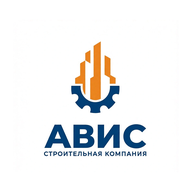
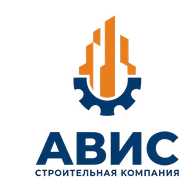
feat: каталог через админку, лого, навигация, mobile fixes
- Каталог решений: 9 категорий управляются через админку (добавление/удаление карточек и фото)
- Solutions.tsx подтягивает каталог из API с fallback на хардкод
- Фото каталога в public/catalog/ для прямого доступа
- Новое лого (прозрачный фон) в хедере, футере, фавиконках
- О компании: лого с белым фоном (avis-logo)
- Навигация: Отрасли добавлена перед Решениями
- Hero mobile: 100svh, видео работает на мобильном
- API: Cache-Control no-cache для мобильного кеширования
- Deploy script: корректное обновление без потери uploads

Changed region(s): [[0.1875, 0.0625, 0.9375, 0.9375]]

diff --git a/src/pages/AdminContent.tsx b/src/pages/AdminContent.tsx
@@ -1,11 +1,24 @@
-import { useState, useEffect, useRef } from "react";
+import { useState, useEffect } from "react";
 import { Button } from "@/components/ui/button";
 import { Input } from "@/components/ui/input";
 import { Textarea } from "@/components/ui/textarea";
 import { Card, CardContent, CardHeader, CardTitle } from "@/components/ui/card";
 import { api } from "@/lib/api";
-import { Check, Loader2, Upload, X } from "lucide-react";
+import { Check, Loader2, Upload, X, Plus, Trash2, ChevronDown, ChevronUp } from "lucide-react";
 import { invalidateContentCache } from "@/hooks/use-content";
+
+interface CatalogProduct {
+  id: string;
+  name: string;
+  description: string;
+  image: string;
+}
+
+interface CatalogCategory {
+  id: string;
+  title: string;
+  products: CatalogProduct[];
+}
 
 interface ContentData {
   hero: { line1: string; line2: string; subtitle: string };
@@ -13,6 +26,7 @@ interface ContentData {
   products: Array<{ name: string; description: string; image: string }>;
   about: { description: string; advantages: string[] };
   contacts: { phone: string; email: string; telegram: string; address: string };
+  catalog: CatalogCategory[];
 }
 
 const defaultContent: ContentData = {
@@ -21,6 +35,7 @@ const defaultContent: ContentData = {
   products: Array.from({ length: 6 }, () => ({ name: "", description: "", image: "" })),
   about: { description: "", advantages: ["", "", "", ""] },
   contacts: { phone: "", email: "", telegram: "", address: "" },
+  catalog: [],
 };
 
 const AdminContent = () => {
@@ -28,6 +43,7 @@ const AdminContent = () => {
   const [loading, setLoading] = useState(true);
   const [saving, setSaving] = useState(false);
   const [saved, setSaved] = useState(false);
+  const [openCategories, setOpenCategories] = useState<Record<string, boolean>>({});
 
   useEffect(() => {
     api.getContent().then((data: any) => {
@@ -37,6 +53,7 @@ const AdminContent = () => {
         products: data.products || defaultContent.products,
         about: data.about || defaultContent.about,
         contacts: data.contacts || defaultContent.contacts,
+        catalog: data.catalog || defaultContent.catalog,
       });
     }).catch(() => {}).finally(() => setLoading(false));
   }, []);
@@ -50,21 +67,24 @@ const AdminContent = () => {
         api.updateContent("products", content.products),
         api.updateContent("about", content.about),
         api.updateContent("contacts", content.contacts),
+        api.updateContent("catalog", content.catalog),
       ]);
       invalidateContentCache();
       setSaved(true);
       setTimeout(() => setSaved(false), 2000);
-    } catch (e) {
+    } catch {
       alert("Ошибка сохранения");
     } finally {
       setSaving(false);
     }
   };
 
+  // Hero
   const updateHero = (field: keyof ContentData["hero"], value: string) => {
     setContent((prev) => ({ ...prev, hero: { ...prev.hero, [field]: value } }));
   };
 
+  // Stats
   const updateStat = (index: number, field: "value" | "label", value: string) => {
     setContent((prev) => {
       const stats = [...prev.stats];
@@ -73,6 +93,7 @@ const AdminContent = () => {
     });
   };
 
+  // Products (home page)
   const updateProduct = (index: number, field: "name" | "description" | "image", value: string) => {
     setContent((prev) => {
       const products = [...prev.products];
@@ -92,10 +113,12 @@ const AdminContent = () => {
     }
   };
 
+  // Contacts
   const updateContacts = (field: keyof ContentData["contacts"], value: string) => {
     setContent((prev) => ({ ...prev, contacts: { ...prev.contacts, [field]: value } }));
   };
 
+  // About
   const updateAbout = (field: "description", value: string) => {
     setContent((prev) => ({ ...prev, about: { ...prev.about, [field]: value } }));
   };
@@ -106,6 +129,79 @@ const AdminContent = () => {
       advantages[index] = value;
       return { ...prev, about: { ...prev.about, advantages } };
     });
+  };
+
+  // ── Catalog ──
+  const addCategory = () => {
+    const id = "cat-" + Date.now();
+    setContent((prev) => ({
+      ...prev,
+      catalog: [...prev.catalog, { id, title: "", products: [] }],
+    }));
+    setOpenCategories((prev) => ({ ...prev, [id]: true }));
+  };
+
+  const removeCategory = (catIndex: number) => {
+    if (!confirm("Удалить категорию и все её карточки?")) return;
+    setContent((prev) => ({
+      ...prev,
+      catalog: prev.catalog.filter((_, i) => i !== catIndex),
+    }));
+  };
+
+  const updateCategoryTitle = (catIndex: number, title: string) => {
+    setContent((prev) => {
+      const catalog = [...prev.catalog];
+      catalog[catIndex] = { ...catalog[catIndex], title };
+      return { ...prev, catalog };
+    });
+  };
+
+  const addProduct = (catIndex: number) => {
+    setContent((prev) => {
+      const catalog = [...prev.catalog];
+      const cat = { ...catalog[catIndex] };
+      cat.products = [...cat.products, { id: `p-${Date.now()}`, name: "", description: "", image: "" }];
+      catalog[catIndex] = cat;
+      return { ...prev, catalog };
+    });
+  };
+
+  const removeProduct = (catIndex: number, prodIndex: number) => {
+    setContent((prev) => {
+      const catalog = [...prev.catalog];
+      const cat = { ...catalog[catIndex] };
+      cat.products = cat.products.filter((_, i) => i !== prodIndex);
+      catalog[catIndex] = cat;
+      return { ...prev, catalog };
+    });
+  };
+
+  const updateCatalogProduct = (catIndex: number, prodIndex: number, field: "name" | "description" | "image", value: string) => {
+    setContent((prev) => {
+      const catalog = [...prev.catalog];
+      const cat = { ...catalog[catIndex] };
+      const products = [...cat.products];
+      products[prodIndex] = { ...products[prodIndex], [field]: value };
+      cat.products = products;
+      catalog[catIndex] = cat;
+      return { ...prev, catalog };
+    });
+  };
+
+  const handleCatalogImage = async (catIndex: number, prodIndex: number, file: File) => {
+    if (!file.type.startsWith("image/")) return;
+    if (file.size > 5 * 1024 * 1024) { alert("Максимум 5MB"); return; }
+    try {
+      const { url } = await api.uploadMedia(file);
+      updateCatalogProduct(catIndex, prodIndex, "image", url);
+    } catch {
+      alert("Ошибка загрузки");
+    }
+  };
+
+  const toggleCategory = (id: string) => {
+    setOpenCategories((prev) => ({ ...prev, [id]: !prev[id] }));
   };
 
   if (loading) {
@@ -173,7 +269,7 @@ const AdminContent = () => {
         </CardContent>
       </Card>
 
-      {/* Products */}
+      {/* Products (home page) */}
       <Card>
         <CardHeader>
           <CardTitle className="text-base font-medium">Продукты на главной — 6 карточек</CardTitle>
@@ -206,6 +302,86 @@ const AdminContent = () => {
                   <Input placeholder="Описание" value={product.description} onChange={(e) => updateProduct(i, "description", e.target.value)} />
                 </div>
               </div>
+            </div>
+          ))}
+        </CardContent>
+      </Card>
+
+      {/* ── Catalog (Solutions page) ── */}
+      <Card>
+        <CardHeader>
+          <div className="flex items-center justify-between">
+            <CardTitle className="text-base font-medium">Каталог решений — страница /solutions</CardTitle>
+            <Button variant="outline" size="sm" onClick={addCategory} className="gap-1">
+              <Plus className="w-4 h-4" /> Категория
+            </Button>
+          </div>
+        </CardHeader>
+        <CardContent className="space-y-3">
+          {content.catalog.length === 0 && (
+            <p className="text-sm text-muted-foreground text-center py-4">
+              Нет категорий. Нажмите «+ Категория» чтобы добавить.
+            </p>
+          )}
+          {content.catalog.map((cat, catIdx) => (
+            <div key={cat.id} className="border border-border rounded-lg overflow-hidden">
+              {/* Category header */}
+              <div
+                className="flex items-center gap-2 px-3 py-2.5 cursor-pointer hover:bg-muted/30 transition-colors"
+                onClick={() => toggleCategory(cat.id)}
+              >
+                {openCategories[cat.id] ? <ChevronUp className="w-4 h-4 text-muted-foreground shrink-0" /> : <ChevronDown className="w-4 h-4 text-muted-foreground shrink-0" />}
+                <span className="text-sm font-medium flex-1">{cat.title || "Без названия"}</span>
+                <span className="text-xs text-muted-foreground">{cat.products.length} карт.</span>
+                <Button variant="ghost" size="icon" className="w-7 h-7 shrink-0" onClick={(e) => { e.stopPropagation(); removeCategory(catIdx); }}>
+                  <Trash2 className="w-3.5 h-3.5 text-destructive" />
+                </Button>
+              </div>
+
+              {/* Category body */}
+              {openCategories[cat.id] && (
+                <div className="px-3 pb-3 space-y-3 border-t border-border/50">
+                  <div className="pt-3">
+                    <label className="text-sm text-muted-foreground mb-1 block">Название категории</label>
+                    <Input value={cat.title} onChange={(e) => updateCategoryTitle(catIdx, e.target.value)} placeholder="Например: Антидроновые сетки" />
+                  </div>
+
+                  {/* Products in category */}
+                  {cat.products.map((prod, prodIdx) => (
+                    <div key={prod.id} className="flex items-start gap-2 pb-3 border-b border-border/30 last:border-0 last:pb-0">
+                      {prod.image ? (
+                        <div className="relative w-20 h-[60px] rounded border border-border overflow-hidden shrink-0">
+                          <img src={prod.image} alt="" className="w-full h-full object-cover" width={80} height={60} />
+                          <button
+                            type="button"
+                            onClick={() => updateCatalogProduct(catIdx, prodIdx, "image", "")}
+                            className="absolute top-0.5 right-0.5 w-4 h-4 bg-black/60 rounded-full flex items-center justify-center hover:bg-black/80"
+                          >
+                            <X className="w-2.5 h-2.5 text-white" />
+                          </button>
+                        </div>
+                      ) : (
+                        <label className="w-20 h-[60px] rounded border-2 border-dashed border-border hover:border-muted-foreground flex flex-col items-center justify-center cursor-pointer shrink-0">
+                          <Upload className="w-3.5 h-3.5 text-muted-foreground" />
+                          <span className="text-[9px] text-muted-foreground mt-0.5">Фото</span>
+                          <input type="file" accept="image/*" className="hidden" onChange={(e) => { const f = e.target.files?.[0]; if (f) handleCatalogImage(catIdx, prodIdx, f); e.target.value = ""; }} />
+                        </label>
+                      )}
+                      <div className="flex-1 space-y-1.5">
+                        <Input placeholder="Название" value={prod.name} onChange={(e) => updateCatalogProduct(catIdx, prodIdx, "name", e.target.value)} className="h-8 text-sm" />
+                        <Input placeholder="Описание" value={prod.description} onChange={(e) => updateCatalogProduct(catIdx, prodIdx, "description", e.target.value)} className="h-8 text-sm" />
+                      </div>
+                      <Button variant="ghost" size="icon" className="w-7 h-7 shrink-0 mt-1" onClick={() => removeProduct(catIdx, prodIdx)}>
+                        <X className="w-3.5 h-3.5 text-muted-foreground" />
+                      </Button>
+                    </div>
+                  ))}
+
+                  <Button variant="outline" size="sm" onClick={() => addProduct(catIdx)} className="w-full gap-1">
+                    <Plus className="w-3.5 h-3.5" /> Добавить карточку
+                  </Button>
+                </div>
+              )}
             </div>
           ))}
         </CardContent>

diff --git a/src/pages/Solutions.tsx b/src/pages/Solutions.tsx
@@ -1,9 +1,10 @@
-import { useState, useEffect, useRef } from "react";
+import { useState, useEffect, useRef, useMemo } from "react";
 import { Link, useLocation, useSearchParams } from "react-router-dom";
 import { Button } from "@/components/ui/button";
 import FadeIn from "@/components/FadeIn";
 import { ArrowRight } from "lucide-react";
-import { catalog, type Category, type Product } from "@/data/catalog";
+import { catalog as defaultCatalog, type Category, type Product } from "@/data/catalog";
+import { useContent } from "@/hooks/use-content";
 import SEO from "@/components/SEO";
 
 /* Placeholder icon SVG */
@@ -58,6 +59,16 @@ const ProductCard = ({ product }: { product: Product }) => (
 const Solutions = () => {
   const [searchParams, setSearchParams] = useSearchParams();
   const activeCategory = searchParams.get("category") || "all";
+  const { content } = useContent();
+
+  // Use catalog from API if available, fallback to hardcoded
+  const catalog: Category[] = useMemo(() => {
+    const apiCatalog = (content as any)?.catalog;
+    if (apiCatalog?.length && apiCatalog.some((c: any) => c.title && c.products?.length)) {
+      return apiCatalog;
+    }
+    return defaultCatalog;
+  }, [content]);
 
   const setCategory = (id: string) => {
     if (id === "all") {

diff --git a/src/hooks/use-content.ts b/src/hooks/use-content.ts
@@ -8,6 +8,7 @@ interface ContentData {
   about: { description: string; advantages: string[] };
   contacts: { phone: string; email: string; telegram: string; address: string };
   videoSlots?: { video01_poster: string; video01_mp4: string; video02_poster: string; video02_mp4: string };
+  catalog?: Array<{ id: string; title: string; products: Array<{ id: string; name: string; description: string; image: string }> }>;
 }
 
 // Shared cache so multiple components don't re-fetch
@@ -26,6 +27,7 @@ function fetchContent(): Promise<ContentData> {
       about: data.about || { description: "", advantages: [] },
       contacts: data.contacts || { phone: "", email: "", telegram: "", address: "" },
       videoSlots: data.videoSlots || undefined,
+      catalog: data.catalog || undefined,
     };
     return cache;
   }).catch(() => {
